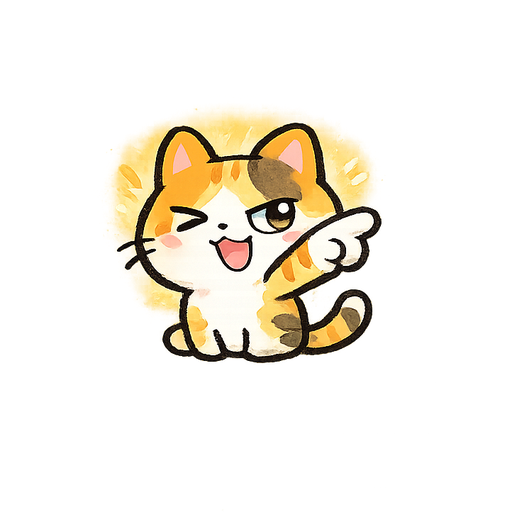
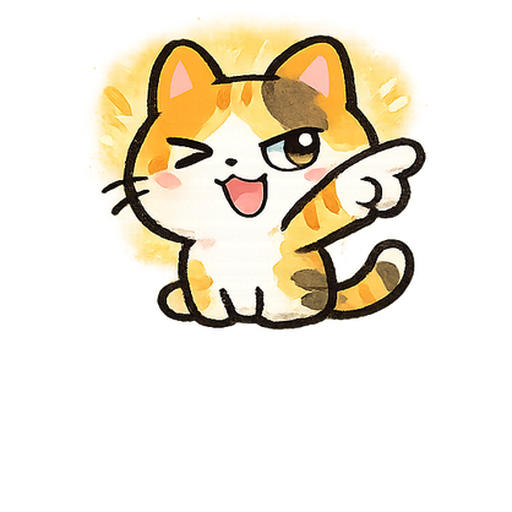
fix: モチ・カゼのアイコンサイズ修正 + スマホスクロール修正
- モチ・カゼの画像を再トリミング（余白を詰めてサイズ感統一）
- Hearing/Meeting: scrollTop → scrollIntoView に変更
  - スマホでの自動スクロールが確実に動作するように
  - bottomRef アンカー要素を追加

diff --git a/src/components/Meeting.tsx b/src/components/Meeting.tsx
@@ -128,12 +128,11 @@ export function Meeting({ hearing, onReset }: MeetingProps) {
     }
   }, [hearing, retryCount]);
 
+  const bottomRef = useRef<HTMLDivElement>(null);
+
   // 自動スクロール（メッセージ確定時のみ）
   const scrollToBottom = useCallback(() => {
-    scrollRef.current?.scrollTo({
-      top: scrollRef.current.scrollHeight,
-      behavior: "smooth",
-    });
+    bottomRef.current?.scrollIntoView({ behavior: "smooth" });
   }, []);
 
   useEffect(() => {
@@ -143,10 +142,7 @@ export function Meeting({ hearing, onReset }: MeetingProps) {
   // ストリーミング中のスクロール追従
   useEffect(() => {
     if (streamingMsg?.text) {
-      scrollRef.current?.scrollTo({
-        top: scrollRef.current.scrollHeight,
-        behavior: "instant",
-      });
+      bottomRef.current?.scrollIntoView({ behavior: "instant" });
     }
   }, [streamingMsg?.text]);
 
@@ -220,6 +216,7 @@ export function Meeting({ hearing, onReset }: MeetingProps) {
         )}
 
         {isLoading && !streamingMsg?.text && <TypingIndicator />}
+        <div ref={bottomRef} />
       </div>
 
       {phase === "done" && (

diff --git a/src/components/Hearing.tsx b/src/components/Hearing.tsx
@@ -46,11 +46,11 @@ export function Hearing({ onComplete }: HearingProps) {
       ? selectedTheme.questions[currentQuestionIndex].options
       : [];
 
+  const bottomRef = useRef<HTMLDivElement>(null);
+
   // 自動スクロール
   const scrollToBottom = useCallback(() => {
-    if (scrollRef.current) {
-      scrollRef.current.scrollTop = scrollRef.current.scrollHeight;
-    }
+    bottomRef.current?.scrollIntoView({ behavior: "smooth" });
   }, []);
 
   // pendingMessagesを1つずつ表示する
@@ -167,6 +167,7 @@ export function Hearing({ onComplete }: HearingProps) {
         ))}
 
         {isTyping && <TypingIndicator />}
+        <div ref={bottomRef} />
       </div>
 
       {/* 選択肢 */}
